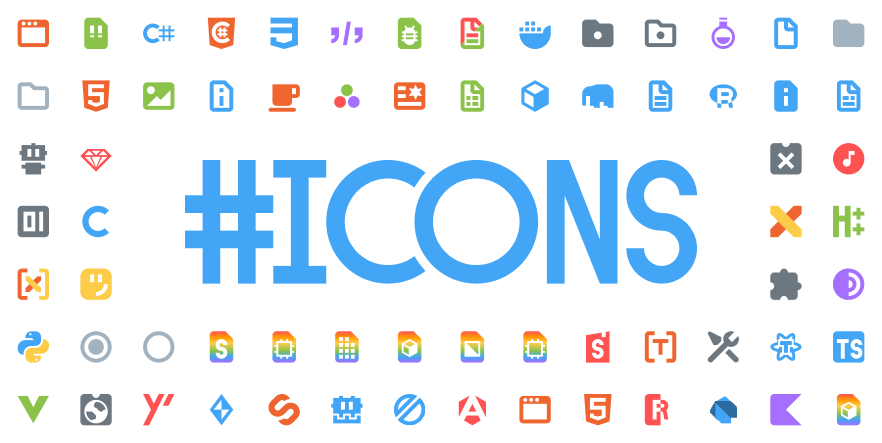
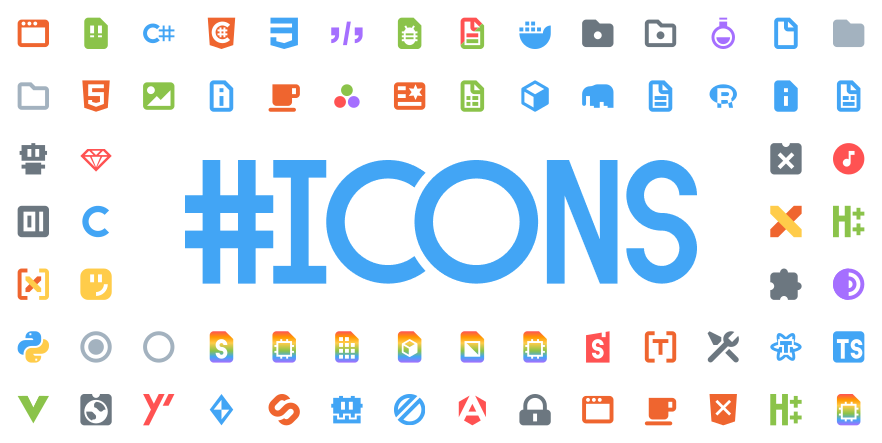
`1.2.8`

Changed region(s): [[0.5816, 0.8804, 0.7653, 0.9684], [0.7959, 0.8804, 0.9184, 0.9684], [0.949, 0.9097, 0.9796, 0.9684]]

diff --git a/build/icons/fileIcons.ts b/build/icons/fileIcons.ts
@@ -180,6 +180,22 @@ export const fileIcons: FileIconAssignments = {
 			'gradlew',
 		]
 	},
+	lock: {
+		exts: [
+			'lockb',
+		],
+		langs: [
+			'go.sum',
+		],
+		names: [
+			'package-lock.json',
+			'pnpm-lock.yaml',
+			'yarn.lock',
+			'bun.lockb',
+			'go.sum',
+			'cargo.lock',
+		]
+	},
 	config: {
 		exts: [
 			'ini',
@@ -456,6 +472,7 @@ export const fileIcons: FileIconAssignments = {
 	},
 	database: {
 		exts: [
+			'db',
 			'sql',
 			'http',
 			'rest',
@@ -597,8 +614,14 @@ export const fileIcons: FileIconAssignments = {
 		exts: [
 			'go',
 		],
+		names: [
+			'go.mod',
+			'go.work',
+		],
 		langs: [
 			'go',
+			'go.mod',
+			'go.work',
 		]
 	},
 	perl: {

diff --git a/CHANGELOG.md b/CHANGELOG.md
@@ -1,5 +1,10 @@
 # Change Log
 
+## [1.2.8]
+- Added lockfile icons.
+- Assigned database icon to `.db` files.
+- Tweaked icons for GO.
+
 ## [1.2.7]
 - Added Angular icon
 - Switched to bun
